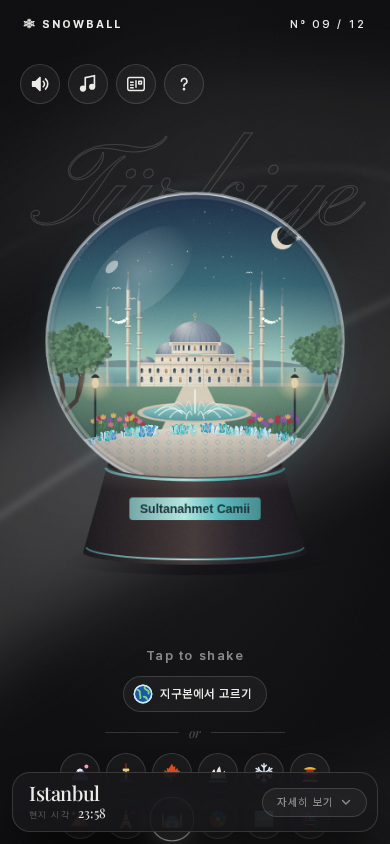
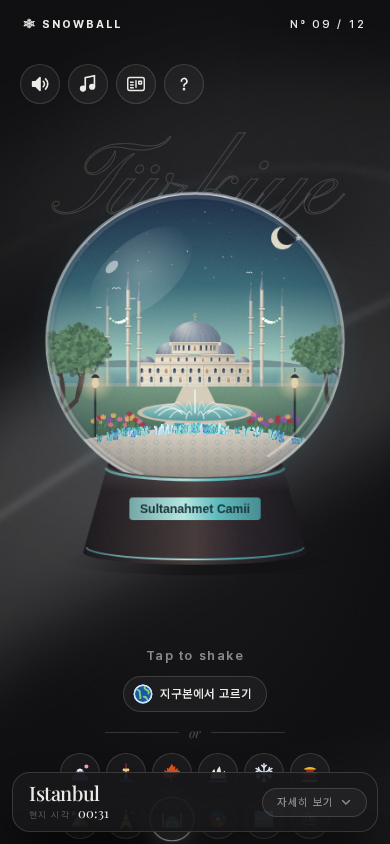
Phone: stop wide ghost words widening the page (pinned bar stayed off-screen on Hong Kong); postcard: 3x re-render of the snowball and native share sheet with the image, falling back to link share or copy; haptic taps on pop and shake; PC: centre group shifts right so the always-open intro never sit
Claude-Session: https://claude.ai/code/session_01JhbTuZzDjvpknmtaqT34oX

diff --git a/styles.css b/styles.css
@@ -64,6 +64,13 @@ html {
 }
 
 /* 작은 화면에서 버튼이 여러 줄로 늘어나면 세로로 스크롤됨 */
+/* 화면 밖으로 삐져나온 글씨(배경 필기체 지명 등) 때문에 폰 화면이 옆으로 넓어지지 않게 자름.
+   넓어지면 아래 고정 띠가 화면 밖으로 밀려남 */
+html,
+body {
+  overflow-x: clip;
+}
+
 body {
   min-height: 100%;
   display: flex;
@@ -303,6 +310,13 @@ body {
 /* PC는 자리가 넓어 접지 않고 이야기와 랜드마크 정보를 모두 늘어놓음.
    위쪽 Let it snow 글씨와 겹치지 않게 제목은 조금 줄이고, 이야기는 화면 높이에 맞춰 스크롤 */
 @media (min-width: 1181px) {
+  /* 왼쪽 소개(폭 270px)와 도구 버튼이 겹치지 않도록, 화면이 좁으면 가운데 묶음(도구·스노우볼·나라)을
+     오른쪽으로 민다. 묶음 폭은 46 + 18 + 400 + 18 + 316 = 798px */
+  #app {
+    position: relative;
+    left: max(0px, calc(clamp(16px, 4vw, 72px) + 294px - (100vw - 798px) / 2));
+  }
+
   .meta-toggle {
     display: none;
   }
@@ -478,8 +492,8 @@ body {
 }
 
 /* 장식 글씨와 장면 정보가 버튼과 겹칠 만큼 좁아지면 숨김 */
-/* 나라 격자가 6열로 넓어져, 1400px보다 좁은 PC 화면에서는 오른쪽 Wonders 글씨와 겹침 → 숨김 */
-@media (max-width: 1399px) {
+/* 나라 격자가 6열로 넓어지고 가운데 묶음이 오른쪽으로 밀려, 1560px보다 좁은 화면에서는 오른쪽 Wonders 글씨와 겹침 → 숨김 */
+@media (max-width: 1559px) {
   .deco-right {
     display: none;
   }
